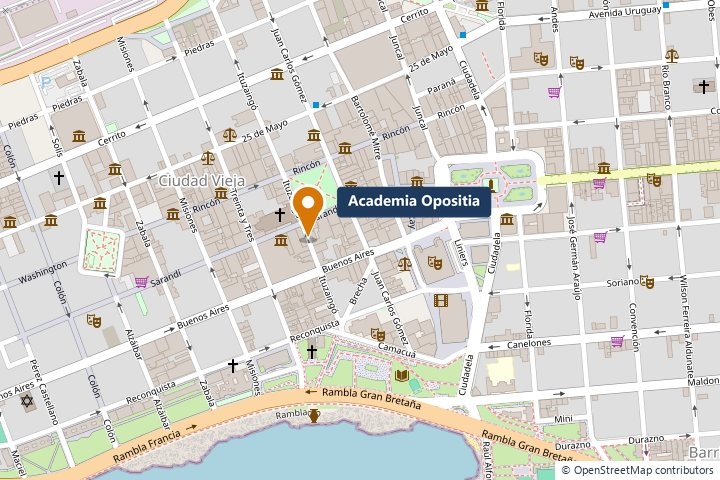
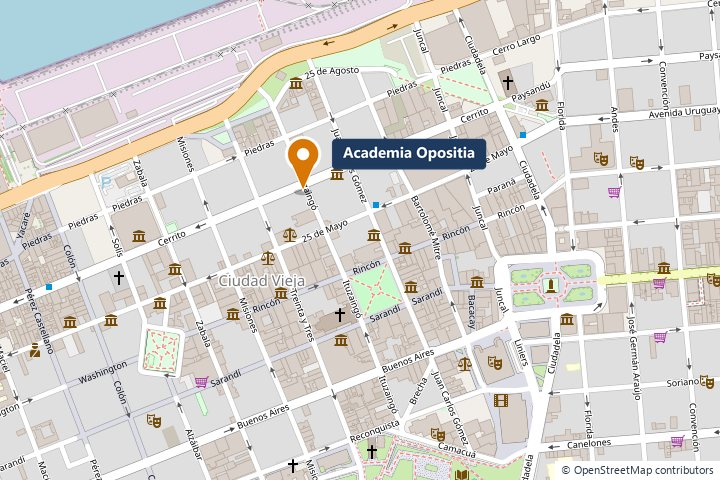
Actualizar direccion de contacto y titulo de Quienes somos
- Direccion de ejemplo: Ituzaingo 1488, Ciudad Vieja (tramo entre 25 de
  Mayo y Cerrito); referencias de como llegar ajustadas.
- Mapa estatico recentrado con el marcador en esa calle; alt y README
  actualizados.
- Titulo de Quienes somos: "Una academia de calidad, con docentes que
  corrigen".

diff --git a/src/data/contacto.ts b/src/data/contacto.ts
@@ -1,6 +1,6 @@
 export const contacto = {
   nombre: "Academia Opositia",
-  direccion: "Ituzaingó 1361, oficina 2",
+  direccion: "Ituzaingó 1488",
   barrio: "Ciudad Vieja, Montevideo",
   cp: "11000",
   telefono: "(+598) 2916 4820",
@@ -9,8 +9,8 @@ export const contacto = {
   horario: "Lunes a viernes de 10:00 a 20:00 · Sábados de 9:30 a 13:00",
   canalPreferido: "Formulario de contacto (respondemos dentro de las 48 horas hábiles)",
   comoLlegar: [
-    "Sobre Ituzaingó, a pasos de la Plaza Matriz y la Catedral.",
-    "Varias líneas de ómnibus llegan a la Plaza Independencia, a pocas cuadras.",
+    "Sobre Ituzaingó, a pocas cuadras de la Plaza Matriz y cerca de la esquina con 25 de Mayo.",
+    "Varias líneas de ómnibus llegan a la Plaza Independencia, a pocos minutos a pie.",
     "Estacionamiento tarifado en la zona y garajes en Ciudad Vieja.",
   ],
 } as const;

diff --git a/src/routes/equipo.tsx b/src/routes/equipo.tsx
@@ -45,7 +45,7 @@ function Equipo() {
       <section className="container-page py-12 md:py-16">
         <p className="eyebrow">Institucional</p>
         <h1 className="mt-3 max-w-2xl text-3xl font-extrabold md:text-4xl">
-          Una academia chica, con docentes que corrigen
+          Una academia de calidad, con docentes que corrigen
         </h1>
         <div className="mt-8 grid gap-10 md:grid-cols-[minmax(0,1.1fr)_minmax(0,0.9fr)] md:items-start">
           <div className="space-y-4 text-muted-foreground">

diff --git a/src/data/images.ts b/src/data/images.ts
@@ -56,7 +56,7 @@ export const images = {
   },
   mapaCentro: {
     url: mapaCentro,
-    alt: "Mapa de Ciudad Vieja y Centro de Montevideo con un marcador en Ituzaingó, junto a la Plaza Matriz",
+    alt: "Mapa de Ciudad Vieja y Centro de Montevideo con un marcador sobre la calle Ituzaingó, entre 25 de Mayo y Cerrito",
     width: 720,
     height: 480,
   },

diff --git a/README.md b/README.md
@@ -104,8 +104,8 @@ y borrar con el botón “Borrar decisión” del propio banner.
   pestaña para no perder lo escrito. Las tres páginas legales tienen un botón “Volver”
   (vuelve a la página anterior del sitio; si se abrieron directamente, lleva a Contacto).
 - **Ubicación**: el bloque de “Cómo llegar” usa un mapa estático de Ciudad Vieja y Centro
-  (OpenStreetMap, con atribución). La dirección es ficticia sobre una calle real
-  (Ituzaingó) y el marcador es ilustrativo, no marca un edificio concreto.
+  (OpenStreetMap, con atribución). La dirección es de ejemplo, sobre una calle real
+  (Ituzaingó 1488) y el marcador es ilustrativo, no identifica un edificio concreto.
 - **Retratos docentes**: se muestran en formato cuadrado y anclados arriba, porque en
   formato apaisado se cortaba la cabeza de algunas fotos.
 - **Contenido sobre concursos**: se contrastó con fuentes oficiales. El reparto de puntos
